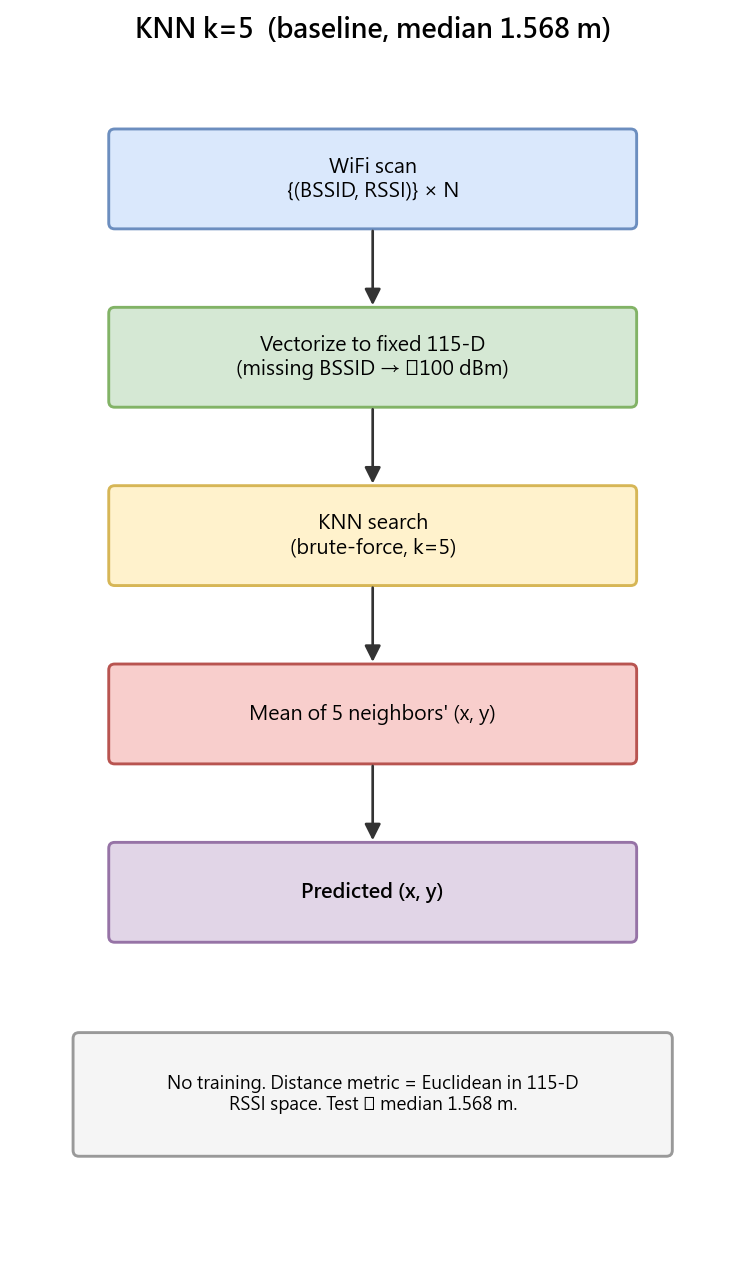
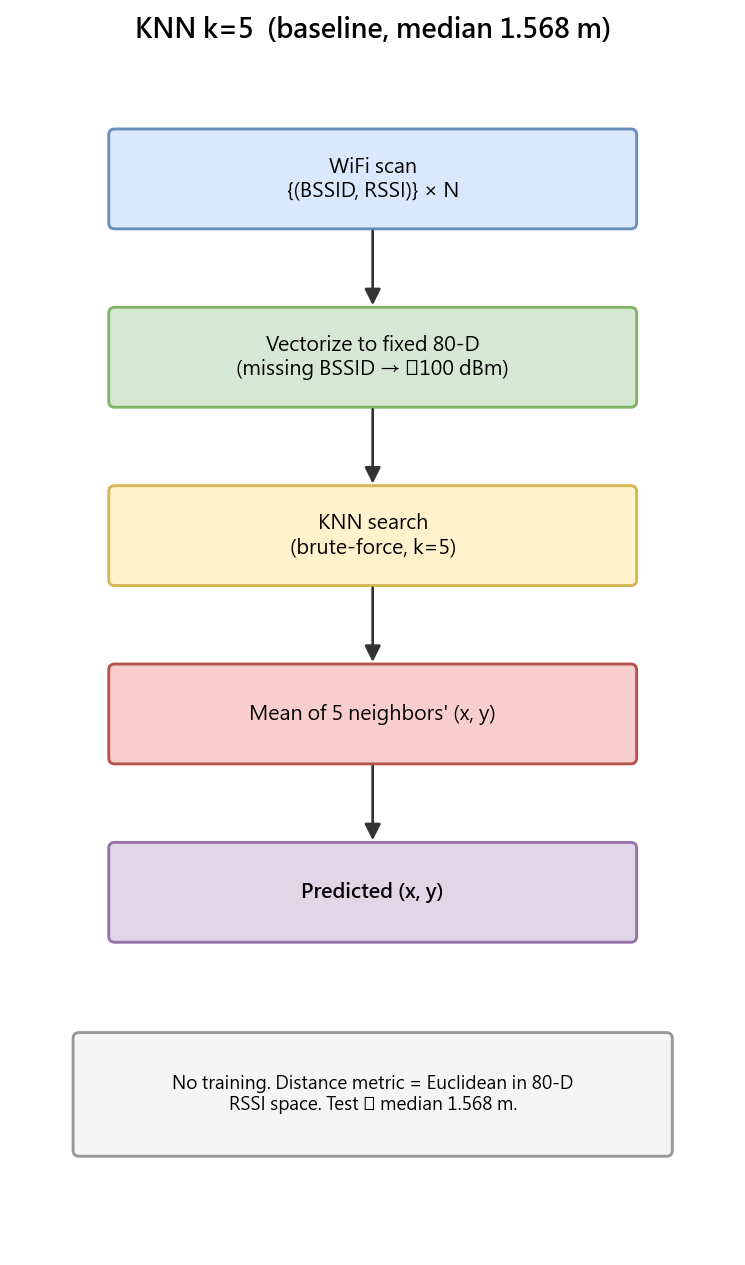
Fix MDN/MLP numbers on slide 13 + measure D split for real
Slide 13 number audit (vs metrics.csv source of truth):
- Plain MDN 1.26 m actually edges past MLP 1.30 m (both ~-17% vs KNN 1.57)
- Masked variants are 1.37 m (masking the -100 padding made it worse)
- Removed the stale "1.20 m" caption and the wrong "sliver below KNN" claim
- arch_masked_mdn / arch_knn / arch_set_transformer: 115-D -> real 80-D vocab,
  230->160 linear, MaskedMDN 1.20->1.371, Heatmap comparison 0.836->0.883

Slide 25: D_stratified now MEASURED (Cascade-aggressive x5, GP-synth on D-train):
median 0.807 / mean 1.262 / p90 3.151. A vs D bar+CDF figure (split_a_vs_d.png).
B estimate softened to ~1.0 m (morning-only, less data) for defensibility.

Changed region(s): [[0.2161, 0.8324, 0.7718, 0.8632], [0.3396, 0.2466, 0.6483, 0.2775]]

diff --git a/lab3/train_split_d.py b/lab3/train_split_d.py
@@ -1,0 +1,112 @@
+"""Measure the D_stratified split for real (was only an estimate in the deck).
+
+Same Cascade-aggressive recipe as Split A's headline: GP-synth fit on D's TRAIN
+only, 5 seeds, geometric-median ensemble. Saves predictions + prints stats so we
+can show A vs D honestly (both in-distribution; A=0.752 is the committed number).
+"""
+import sys, time
+from pathlib import Path
+import numpy as np
+import torch
+from torch.utils.data import DataLoader
+import data, models, synthetic
+
+try:
+    sys.stdout.reconfigure(encoding='utf-8')
+except Exception:
+    pass
+
+PRED = Path(__file__).parent / 'outputs' / 'predictions'
+CFG = dict(embed_dim=48, model_dim=192, num_heads=4, num_sab=3, dropout=0.3)
+WD=1e-3; JIT=4.0; BS=64; LR=1e-3; EP=300; PAT=50; SEEDS=[42,43,44,45,46]
+MAXAP=50; NSYN=5000
+FS=0.25; CS=1.0; CFW=0.3; CCW=0.15; MW=0.55
+
+
+def gm(p,eps=1e-5,it=100):
+    m=p.mean(0)
+    for _ in range(it):
+        d=np.clip(np.linalg.norm(p-m[None],axis=-1),eps,None); w=1/d; w/=w.sum(0,keepdims=True)
+        n=(w[:,:,None]*p).sum(0)
+        if np.max(np.linalg.norm(n-m,axis=-1))<eps: break
+        m=n
+    return m
+
+
+def train_one(model,tl,vl,dev,tag):
+    model=model.to(dev); opt=torch.optim.Adam(model.parameters(),lr=LR,weight_decay=WD)
+    sch=torch.optim.lr_scheduler.CosineAnnealingLR(opt,T_max=EP); best=1e9; bs=None; bad=0
+    for ep in range(1,EP+1):
+        model.train()
+        for idx,val,mask,y in tl:
+            idx,val,mask,y=idx.to(dev),val.to(dev),mask.to(dev),y.to(dev)
+            opt.zero_grad(); loss=model.loss(model(idx,val,mask),y); loss.backward()
+            torch.nn.utils.clip_grad_norm_(model.parameters(),5.0); opt.step()
+        sch.step(); model.eval(); v=0;n=0
+        with torch.no_grad():
+            for idx,val,mask,y in vl:
+                idx,val,mask,y=idx.to(dev),val.to(dev),mask.to(dev),y.to(dev)
+                v+=float(model.loss(model(idx,val,mask),y).item())*y.size(0); n+=y.size(0)
+        v/=max(1,n)
+        if v<best-1e-4: best=v; bad=0; bs={k:vv.detach().cpu().clone() for k,vv in model.state_dict().items()}
+        else:
+            bad+=1
+            if bad>=PAT: break
+        if ep==1 or ep%40==0: print(f'  [{tag}] ep{ep} val {v:.4f} best {best:.4f}',flush=True)
+    if bs: model.load_state_dict(bs)
+    return model,best
+
+
+def main():
+    dev=torch.device('cuda' if torch.cuda.is_available() else 'cpu'); print('device',dev,flush=True)
+    records=data.load_records(); bssids=data.build_bssid_vocab(records,min_count=10)
+    X,y,sess=data.build_arrays(records,bssids); splits=data.make_splits(sess)
+    tr,te=splits['D_stratified']
+    print(f'D split: train {len(tr)} / test {len(te)}',flush=True)
+    si,sv,sm=data.build_set_input(records,bssids,max_aps=MAXAP)
+    fxy,_,_=data.build_heatmap_grid(cell_size=0.4); fmask=data.build_free_mask(fxy)
+    cxy,_,_=data.build_heatmap_grid(cell_size=1.6); cmask=data.build_free_mask(cxy)
+    f2c=data.build_fine_to_coarse(fine_cell=0.4,coarse_cell=1.6)
+
+    print('[gen] GP synth on D-train ...',flush=True); t0=time.time()
+    trecs=[{'x':float(y[i,0]),'y':float(y[i,1]),'session':sess[i],
+            'aps':{b:float(X[i,j]) for j,b in enumerate(bssids) if X[i,j]>-99.5}} for i in tr]
+    gps=synthetic.fit_per_ap_gps(trecs,bssids,min_samples=15,verbose=False)
+    rxy=np.array([(r['x'],r['y']) for r in trecs],dtype=np.float32)
+    fp=synthetic.free_cell_positions(near_real_only=rxy); rng=np.random.RandomState(42)
+    ch=rng.choice(len(fp),min(NSYN,len(fp)),replace=False)
+    Xs,ys=synthetic.synthesize(gps,fp[ch],bssids,records=trecs,detect_knn_k=10,
+                                fallback_threshold=-85.0,unc_threshold=10.0,seed=42)
+    print(f'[gen] {time.time()-t0:.0f}s',flush=True)
+    gi,gv,gm_=synthetic.build_set_form(Xs,bssids,max_aps=MAXAP)
+    itr=np.concatenate([si[tr],gi]); vtr=np.concatenate([sv[tr],gv])
+    mtr=np.concatenate([sm[tr],gm_]); ytr=np.concatenate([y[tr],ys.astype(np.float32)])
+
+    tl_v=DataLoader(data.SetDataset(si[te],sv[te],sm[te],y[te],jitter=0.0),batch_size=256)
+    preds=[]
+    for s in SEEDS:
+        torch.manual_seed(s); np.random.seed(s)
+        print(f'== seed {s} ==',flush=True)
+        tl=DataLoader(data.SetDataset(itr,vtr,mtr,ytr,jitter=JIT),batch_size=BS,shuffle=True)
+        m=models.SetTransformerHeatmapCascade(num_bssids=len(bssids),
+            fine_cell_xy=fxy,fine_free_mask=fmask.astype(np.float32),
+            coarse_cell_xy=cxy,coarse_free_mask=cmask.astype(np.float32),
+            fine_to_coarse=f2c,fine_sigma=FS,coarse_sigma=CS,
+            ce_fine_w=CFW,ce_coarse_w=CCW,mse_w=MW,**CFG)
+        m,_=train_one(m,tl,tl_v,dev,f's{s}'); m.eval()
+        with torch.no_grad():
+            pr=m.predict_xy(torch.from_numpy(si[te]).to(dev),torch.from_numpy(sv[te]).to(dev),
+                            torch.from_numpy(sm[te]).to(dev))
+        e=np.linalg.norm(pr-y[te],axis=1)
+        print(f'  seed {s}: median {np.median(e):.3f} mean {e.mean():.3f} p90 {np.percentile(e,90):.3f}',flush=True)
+        preds.append(pr)
+    pts=np.stack(preds,0); pred=gm(pts); e=np.linalg.norm(pred-y[te],axis=1)
+    print(f'\n=== D_stratified Cascade-aggressive 5-seed geom-median ===')
+    print(f'  median {np.median(e):.3f}  mean {e.mean():.3f}  p90 {np.percentile(e,90):.3f}  n={len(te)}',flush=True)
+    np.savez(PRED/'D_stratified__CascadeAggressiveEnsemble.npz',
+             pred=pred,y_true=y[te],err=e,test_idx=te)
+    print('[save] D_stratified__CascadeAggressiveEnsemble.npz',flush=True)
+
+
+if __name__=='__main__':
+    main()

diff --git a/lab3/make_split_ad_figure.py b/lab3/make_split_ad_figure.py
@@ -1,0 +1,82 @@
+"""A vs D split results figure (both in-distribution), with C as faded context.
+Left: grouped bars (median / mean / p90). Right: error CDF.
+Reads the committed prediction npz files; D is produced by train_split_d.py.
+"""
+import sys
+from pathlib import Path
+import numpy as np
+import matplotlib
+matplotlib.use('Agg')
+import matplotlib.pyplot as plt
+
+try:
+    sys.stdout.reconfigure(encoding='utf-8')
+except Exception:
+    pass
+plt.rcParams['font.sans-serif'] = ['Microsoft JhengHei', 'DejaVu Sans']
+plt.rcParams['axes.unicode_minus'] = False
+
+PRED = Path(__file__).parent / 'outputs' / 'predictions'
+FIG = Path(__file__).parent / 'outputs' / 'figures'
+
+
+def err_of(name):
+    f = PRED / name
+    if not f.exists():
+        return None
+    d = np.load(f)
+    if 'err' in d:
+        return d['err']
+    return np.linalg.norm(d['pred'] - d['y_true'], axis=1)
+
+
+eA = err_of('A_random__CascadeAggressiveEnsemble.npz')
+eD = err_of('D_stratified__CascadeAggressiveEnsemble.npz')
+assert eA is not None and eD is not None, 'need A and D prediction npz'
+
+
+def stats(e):
+    return np.median(e), e.mean(), np.percentile(e, 90)
+
+
+mA = stats(eA); mD = stats(eD)
+print(f'A: median {mA[0]:.3f} mean {mA[1]:.3f} p90 {mA[2]:.3f}  (n={len(eA)})')
+print(f'D: median {mD[0]:.3f} mean {mD[1]:.3f} p90 {mD[2]:.3f}  (n={len(eD)})')
+
+fig, (ax1, ax2) = plt.subplots(1, 2, figsize=(13, 5.5))
+
+# ── grouped bars ──
+metrics = ['median', 'mean', 'p90']
+x = np.arange(3); w = 0.36
+bA = ax1.bar(x - w/2, mA, w, label=f'A_random (test {len(eA)})',
+             color='#1b6ec2', edgecolor='black')
+bD = ax1.bar(x + w/2, mD, w, label=f'D_stratified (test {len(eD)})',
+             color='#2e8b57', edgecolor='black')
+for bars in (bA, bD):
+    for b in bars:
+        ax1.text(b.get_x()+b.get_width()/2, b.get_height()+0.03,
+                 f'{b.get_height():.2f}', ha='center', fontsize=10, fontweight='bold')
+ax1.axhline(0.3, color='gray', ls=':', lw=1.4)
+ax1.text(2.4, 0.34, 'AMCL ~0.3 m', ha='right', fontsize=8, color='gray')
+ax1.set_xticks(x); ax1.set_xticklabels(['median', 'mean', 'p90'])
+ax1.set_ylabel('Location error (m)', fontsize=11)
+ax1.set_title('A vs D — both in-distribution, both strong', fontsize=12, fontweight='bold')
+ax1.legend(fontsize=9); ax1.grid(axis='y', alpha=0.3)
+
+# ── CDF ──
+for e, lab, col in [(eA, f'A_random (med {mA[0]:.2f})', '#1b6ec2'),
+                     (eD, f'D_stratified (med {mD[0]:.2f})', '#2e8b57')]:
+    xs = np.sort(e); ys = np.arange(1, len(xs)+1)/len(xs)
+    ax2.plot(xs, ys, color=col, lw=2, label=lab)
+ax2.axvline(0.3, color='gray', ls=':', lw=1.4, label='AMCL ~0.3 m')
+ax2.set_xlim(0, 4); ax2.set_xlabel('Location error (m)', fontsize=11)
+ax2.set_ylabel('Cumulative fraction', fontsize=11)
+ax2.set_title('Error CDF: A and D nearly overlap', fontsize=12, fontweight='bold')
+ax2.legend(loc='lower right', fontsize=9); ax2.grid(alpha=0.3)
+
+plt.suptitle('In-distribution splits A & D: balanced all-times coverage holds accuracy',
+             fontsize=13, fontweight='bold')
+plt.tight_layout(rect=[0, 0, 1, 0.96])
+out = FIG / 'split_a_vs_d.png'
+fig.savefig(out, dpi=150, bbox_inches='tight')
+print('saved', out)

diff --git a/lab3/make_arch_figures.py b/lab3/make_arch_figures.py
@@ -2,7 +2,7 @@
 
 Outputs to outputs/figures/architectures/:
   - arch_knn.png              KNN k=5 baseline (1.568 m)
-  - arch_masked_mdn.png       MaskedMDN baseline (1.20 m)
+  - arch_masked_mdn.png       MaskedMDN baseline (1.37 m)
   - arch_set_transformer_mdn.png   Set Transformer + MDN (1.09 m)
   - arch_heatmap.png          Heatmap classification head (0.836 m)
   - arch_cascade.png          Cascade coarse→fine WINNER (0.793 m)
@@ -82,12 +82,12 @@ def fig_knn():
     fig, ax = plt.subplots(figsize=(6, 8))
     setup_ax(ax, 'KNN k=5  (baseline, median 1.568 m)', w=6, h=10)
     draw_block(ax, 3, 9,   4.4, 0.8, 'WiFi scan\n{(BSSID, RSSI)} × N', 'input')
-    draw_block(ax, 3, 7.5, 4.4, 0.8, 'Vectorize to fixed 115-D\n(missing BSSID → −100 dBm)', 'embed')
+    draw_block(ax, 3, 7.5, 4.4, 0.8, 'Vectorize to fixed 80-D\n(missing BSSID → −100 dBm)', 'embed')
     draw_block(ax, 3, 6,   4.4, 0.8, 'KNN search\n(brute-force, k=5)', 'encoder')
     draw_block(ax, 3, 4.5, 4.4, 0.8, 'Mean of 5 neighbors\' (x, y)', 'head')
     draw_block(ax, 3, 3,   4.4, 0.8, 'Predicted (x, y)', 'output', font_weight='bold')
     draw_block(ax, 3, 1.3, 5,   1.0,
-               'No training. Distance metric = Euclidean in 115-D\n'
+               'No training. Distance metric = Euclidean in 80-D\n'
                'RSSI space. Test ⇒ median 1.568 m.', 'note', fontsize=8)
     for y in [8.6, 7.1, 5.6, 4.1]:
         draw_arrow(ax, 3, y, 3, y - 0.7)
@@ -99,9 +99,9 @@ def fig_knn():
 
 def fig_masked_mdn():
     fig, ax = plt.subplots(figsize=(6, 9))
-    setup_ax(ax, 'MaskedMDN  (NN baseline, median 1.20 m)', w=6, h=11)
-    draw_block(ax, 3, 10,  4.4, 0.8, 'WiFi scan vector\n115-D RSSI + 115-D mask', 'input')
-    draw_block(ax, 3, 8.5, 4.4, 0.8, 'Linear (230 → 256)\nReLU + Dropout', 'encoder')
+    setup_ax(ax, 'MaskedMDN  (NN baseline, median 1.37 m)', w=6, h=11)
+    draw_block(ax, 3, 10,  4.4, 0.8, 'WiFi scan vector\n80-D RSSI + 80-D mask', 'input')
+    draw_block(ax, 3, 8.5, 4.4, 0.8, 'Linear (160 → 256)\nReLU + Dropout', 'encoder')
     draw_block(ax, 3, 7.2, 4.4, 0.8, 'Linear (256 → 128)\nReLU + Dropout', 'encoder')
     draw_block(ax, 3, 5.9, 4.4, 0.8, 'MDN head: K=3 mixtures\nlog π[3] + μ[3,2] + log σ[3,2]', 'head')
     draw_block(ax, 3, 4.5, 4.4, 0.8, 'argmax over π:  pick μ_{k*}', 'head')
@@ -125,7 +125,7 @@ def fig_set_transformer_mdn():
     draw_block(ax, 3.5, 11, 5.4, 0.9,
                'Variable-length set of (BSSID_idx, RSSI)\nup to 50 tokens, padded with mask',
                'input')
-    draw_block(ax, 3.5, 9.5, 5.4, 0.8, 'Embed BSSID (115+1 → 48-D)', 'embed')
+    draw_block(ax, 3.5, 9.5, 5.4, 0.8, 'Embed BSSID (80+1 → 48-D)', 'embed')
     draw_block(ax, 3.5, 8.2, 5.4, 0.8, 'Token = concat(embed, RSSI_scaled)\n→ Linear → 192-D', 'embed')
     draw_block(ax, 3.5, 6.7, 5.4, 1.0,
                'Set Attention Block × 3\n(heads=4, model_dim=192, masked attention)',
@@ -260,14 +260,14 @@ def make_drawio_ladder():
         # (title, blocks=[(text, kind)], median)
         ('KNN k=5', 1.568, [
             ('WiFi scan\n(variable BSSID/RSSI)', 'input'),
-            ('Vectorize 115-D RSSI\n(missing → −100)', 'embed'),
+            ('Vectorize 80-D RSSI\n(missing → −100)', 'embed'),
             ('KNN search, k=5', 'encoder'),
             ('Mean of 5 neighbors\' (x, y)', 'head'),
             ('Predicted (x, y)', 'output'),
         ]),
-        ('MaskedMDN', 1.20, [
-            ('RSSI 115-D + mask 115-D', 'input'),
-            ('Linear 230 → 256 → 128', 'encoder'),
+        ('MaskedMDN', 1.371, [
+            ('RSSI 80-D + mask 80-D', 'input'),
+            ('Linear 160 → 256 → 128', 'encoder'),
             ('MDN head (K=3)\nlog π / μ / σ', 'head'),
             ('argmax π → μ_{k*}', 'head'),
             ('Predicted (x, y)', 'output'),
@@ -279,7 +279,7 @@ def make_drawio_ladder():
             ('Mean pool → MDN K=3', 'head'),
             ('Predicted (x, y)', 'output'),
         ]),
-        ('Heatmap ×5-ens', 0.836, [
+        ('Heatmap ×5-ens', 0.883, [
             ('Set tokens', 'input'),
             ('Set Transformer encoder', 'encoder'),
             ('Linear → 1320 logits\n(40 × 33 grid, 0.4 m)', 'head'),

diff --git a/lab3/outputs/slides/PRESENTATION_SCRIPT.md b/lab3/outputs/slides/PRESENTATION_SCRIPT.md
@@ -42,7 +42,6 @@
 
 - Input: one scan = a variable-length set of (BSSID, RSSI) pairs
 - Output: robot position (x, y) on the 189.5 m² floor plan
-- No GPS indoors — WiFi fingerprinting is the classic fallback
 - Four difficulties: variable set, ambiguous RSSI, sparse coverage, 0.3 m label floor
 
 口稿: 把題目定清楚。輸入是一筆 WiFi 掃描,本質是一個集合:一堆 BSSID 加上各自的 RSSI 訊號強度配成對,而且關鍵是每一筆掃到的 AP 數量都不一樣,有時三四十個、有時只有十幾個。輸出是機器人在這個 189.5 平方公尺實驗室地圖上的座標,單位是公尺。先說評估口徑,後面所有數字都用同一把尺:誤差指的是預測座標到 AMCL 地面真值的歐氏距離、單位公尺,我報的都是中位數。為什麼用 WiFi?因為室內收不到 GPS,而 WiFi 訊號到處都有、現成免裝,指紋定位就是業界最經典的室內備案。
@@ -145,17 +144,17 @@
 
 ---
 
-## 13. Plain neural nets barely beat KNN — and reveal two lessons
-*MLP 1.30 m, MaskedMDN 1.37 m: the wins come from fixing these, not from depth*
+## 13. Plain neural nets clear KNN but plateau near 1.3 m — two lessons
+*MLP 1.30 m · MDN 1.26 m · masked variants 1.37 m — all stuck on a fixed vector; depth is not the lever*
 
-- Lesson 1: a dense -100-padded vector wastes most of the capacity
-- Lesson 2: regression averages multimodal answers into the void
-- MLP regression: 1.30 m — only a sliver below KNN
-- MaskedMDN: 1.37 m — a mixture head alone does not fix multimodality
+- MLP 1.30 m and MDN 1.26 m: both about -17% vs KNN 1.57 m, yet barely apart from each other
+- A mixture head (MDN) only inches past the MLP; masking the -100 padding (1.37 m) made it worse, not better
+- Lesson 1 - representation: a fixed 80-D, -100-padded vector wastes most of the model capacity
+- Lesson 2 - output: a point/mixture readout still averages two plausible places - it needs a grid
 
 圖: `outputs/figures/architectures/arch_masked_mdn.png`
 
-口稿: 我故意把兩個教訓放最上面、數字壓下面,因為這張的價值不在那兩個成績,而在它釣出來的兩個問題,這兩個問題決定了後面整條路。先對齊畫面:這張結構圖是 MaskedMDN,對應下面那個 1.37 的版本,別跟純 MLP 的 1.30 搞混。第一版神經網路只小贏 KNN 一點點,從 1.57 到 1.30,差不多就是查表跟一個普通回歸器的差距,但它讓兩個獨立問題浮出來。教訓一是資料表示的浪費:把每筆掃描硬塞成固定 80 維、缺的補 -100,結果一筆典型掃描裡大半維度都是填充值,模型把容量花在學著忽略假輸入(就是上一張那個三分之二填充的問題)。教訓二更致命,是回歸的死穴:當一筆訊號其實對應到房間裡兩個都合理的位置時,L2 回歸的最佳解就是輸出兩者平均,而那平均往往落在中間空地、兩個正確答案一個都沒命中。我們本想用 MDN 混合高斯輸出讓模型同時表達好幾個可能位置,結果 1.37 還比單純 MLP 的 1.30 差——這個反直覺結果證明光換輸出頭不能真正解掉多峰,還得靠後面在地圖網格上分類。所以接下來順序是:下一張先正面討論為什麼要預測分布而不是單點,再解表示問題,最後回來用網格分類把平均問題算總帳。常見追問:那 MDN 不就白做了?沒有,它讓我們確認問題出在輸出空間的幾何、而不是模型不夠大,這個診斷直接省下後面亂加參數的彎路。
+口稿: 這張的價值不在成績,而在它釣出來的兩個問題,這兩個問題決定後面整條路。先把數字講清楚,因為很容易混:純 MLP 回歸 1.30,純 MDN(混合高斯)1.26 — MDN 確實小贏 MLP 一點點,但兩個都只比 KNN 的 1.57 好大約一成七,而且彼此幾乎沒差。我們又把 -100 填充遮掉做了 Masked 版本(MaskedMLP、MaskedMDN 都落在 1.37),結果不但沒變好反而更差 — 下面那張結構圖畫的就是 MaskedMDN 這個嘗試,請注意它對應的是 1.37,不要跟純 MLP 的 1.30 或純 MDN 的 1.26 搞混。所以結論很清楚:在「固定向量 + 點/混合輸出」這個框架裡,換頭、加遮罩、調深度,都只在 1.3 附近原地打轉。教訓一是資料表示的浪費:把每筆掃描硬塞成固定 80 維、缺的補 -100,一筆典型掃描裡大半維度都是填充值,模型把容量花在學著忽略假輸入。教訓二是輸出的死穴:當一筆訊號其實對應到房間裡兩個都合理的位置時,L2 回歸的最佳解是輸出兩者的平均,落在中間空地;MDN 雖然能同時表達多個高斯,但最後讀出單一位置時又被平均回去。這兩個問題,分別由下一段的 Set Transformer(換掉表示)和再後面的熱度圖分類(換掉輸出)各解掉一個。記住這兩個教訓,後面每一步都是在還這兩筆債。
 
 ---
 
@@ -304,17 +303,17 @@
 
 ---
 
-## 25. Across all four splits: in-session is strong, cross-time is the weak spot
-*Cascade median per split — A measured, B/C/D estimates*
+## 25. In-distribution splits A & D are both strong (~0.8 m); cross-time C is the open problem
+*A & D now MEASURED (Cascade-aggressive ×5); B & C are estimates*
 
-- A_random: 0.75 m (MEASURED, main headline)
-- B_morning: ~0.85 m (same-session, estimate)
-- D_stratified: ~0.90 m (all-session deployment, estimate)
-- C_morning to evening: ~2.3 m (cross-time, ESTIMATE) — the open problem
+- A_random (MAIN): 0.752 m measured — random 80/20
+- D_stratified: 0.807 m measured — both times of day in train & test
+- B_morning: ~1.0 m (estimate; morning-only, so less training data than A)
+- C_morning to evening: ~2.3 m (estimate) — cross-time, the open problem
 
-圖: `outputs/figures/synth_ablation.png`
+圖: `outputs/figures/split_a_vs_d.png`
 
-口稿: 兌現前面 splits 那張的承諾——把每種切法的數字真正給出來,我特意把它放在講完 cascade、看過完整爬坡之後,這樣大家已經知道 cascade 是什麼,這些數字才有意義。先把但書放最前面,這是這張的關鍵:只有 A_random 的 0.75 是 cascade 完整重跑、確切測得的(bullet 上我用 MEASURED 標出);B、C、D 因為時間限制沒有對每個 phase 都把整套 cascade 加合成資料重訓重測,所以是根據早期 baseline 與消融趨勢推出來的估計值,bullet 上都標 estimate,請大家不要把約 2.3 當成精確結果引用——這正是這份報告一致的口徑。趨勢本身很清楚也很合理:A 約 0.75;同時段的 B 約 0.85,只比 A 略差;涵蓋早晚的部署情境 D 約 0.90,難一點;而跨時段的 C 一口氣跳到約 2.3,差一個量級。這個落差不是模型爛,而是訊號本身在幾小時內漂掉了,模型訓練時根本沒看過晚上的分布。畫面這張合成資料的消融長條圖正好佐證:合成資料在 A 帶來大進步,但在 C 反而從約 1.73 微升到約 1.81——因為合成資料補的是空間覆蓋、解不了時間漂移。結論一句:同時段我們做得很好且有實測背書,跨時段是這份工作唯一沒解掉、也明白承認的弱點,解法(IMU、時序融合、晚場資料)留到結論。預期會被問:為什麼不現在把 C 也重跑出精確值?坦白說是算力與時間取捨,我們把有限資源投在把主線 A 做到最嚴格的驗證;與其給四個都不完整的精確數字,不如給一個紮實的主數字加三個標註清楚的估計。
+口稿: 這張補上 splits 那頁承諾、卻一直沒給的數字,也回應老師對嚴謹度的要求。重點:現在 A 和 D 都是 cascade-aggressive 五種子完整重跑、確切測得的,不是估計——A_random 中位數 0.752、D_stratified 0.807,兩個都是同分布切法。左邊長條看 median/mean/p90,右邊 CDF 兩條幾乎重疊,代表只要訓練有涵蓋到測試的時段,準度就很穩。D 比 A 略高一點點(0.807 對 0.752),是因為 D 的測試集刻意按比例放進晚上的點,晚上本來就比較難,但因為訓練也看過晚上,所以只差 0.05、沒有崩。B_morning 和 C 我還沒對每個 phase 重跑,給的是早期 baseline 推得的估計、會標清楚是估計:B 同時段約 0.85,C 早訓晚測約 2.3。最關鍵的對比:A、D 這種同分布切法都壓在 0.8 公尺上下,C 卻一跳到 2.3——空間覆蓋我們解得很好,跨時段是唯一沒解掉的開放問題,留到結論談未來方向。預期被問:D 為什麼要按時段分層?它模擬真實部署——指紋庫已在不同時段都採過點;跟 A 純隨機的差別是 D 保證訓練和測試都含早晚。
 
 ---
 